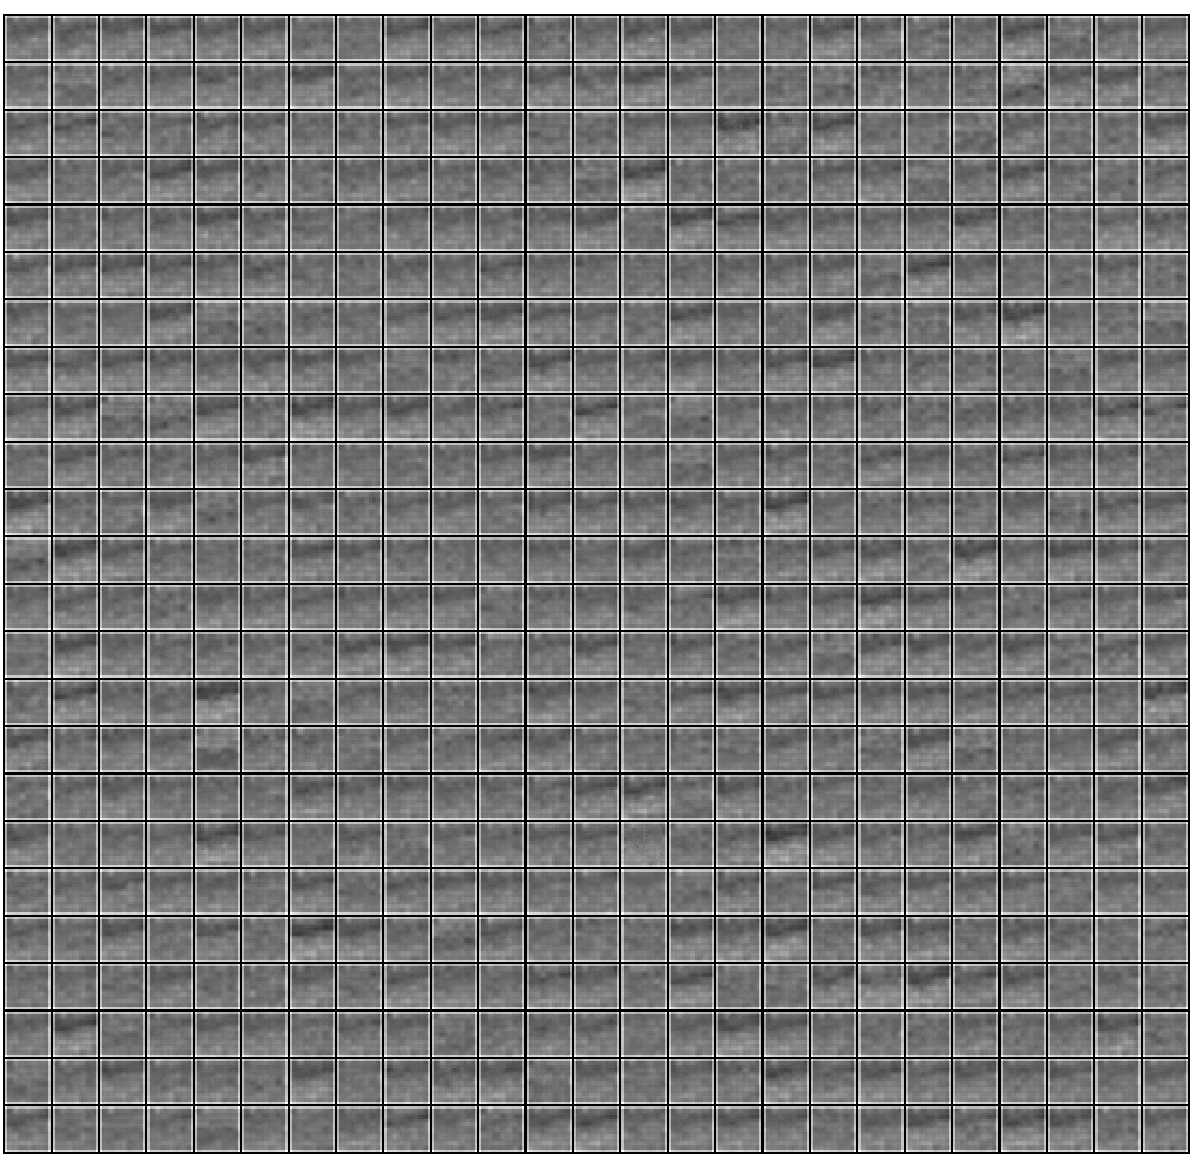
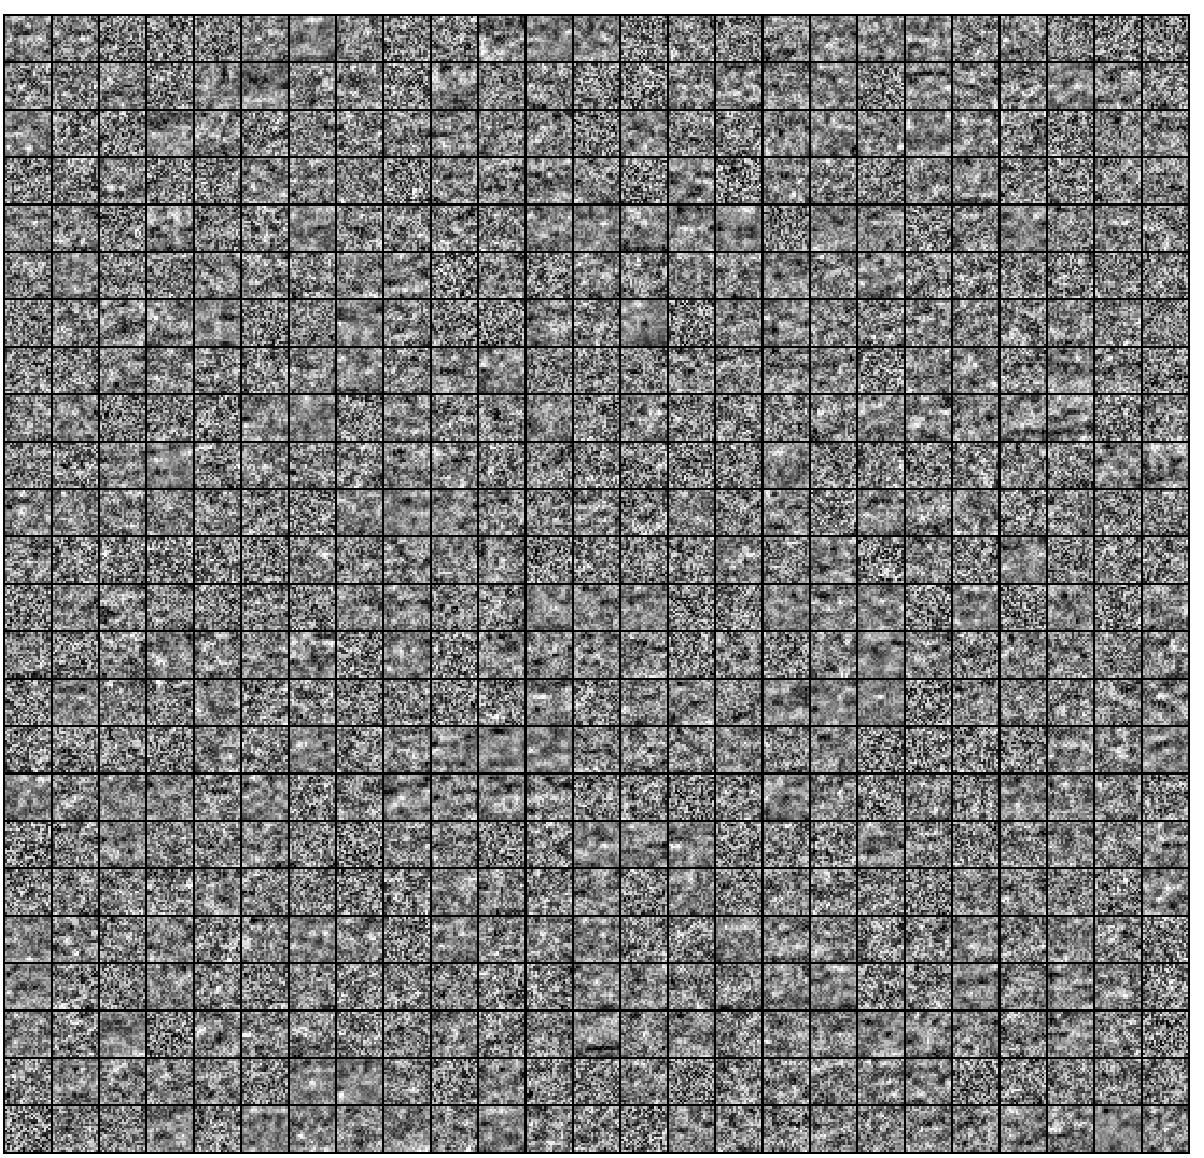
sync remote

diff --git a/train.m b/train.m
@@ -9,11 +9,11 @@ close all
 params.patchsize = 21;
 params.visibleSize = params.patchsize* params.patchsize;   % number of input units 
 params.hiddenSize = 600;     % number of hidden units 
-params.sparsityParam = 0.01;   % desired average activation of the hidden units.
+params.sparsityParam = 0.05;   % desired average activation of the hidden units.
                      % (This was denoted by the Greek alphabet rho, which looks like a lower-case "p",
 		     %  in the lecture notes). 
-params.lambda = 0.0001;     % weight decay parameter       
-params.beta =0.0001;            % weight of sparsity penalty term       
+params.lambda = 0.00001;     % weight decay parameter       
+params.beta =0.001;            % weight of sparsity penalty term       
 params.train_type = 0; % 0 or 1 depending on repeated and non repeated case
 params.batchsize = 250;
 params.alpha = 0.1;
@@ -92,7 +92,8 @@ options.Method = 'LBFGS'; % Here, we use conjugate gradient to optimize our cost
                           % function. L-BFGS can also be used as in the original exercise 
                           % code
 %[opttheta, cost,exitflag,output]= minFunc(@(p)sparseAutoencoderCost(p,params.visibleSize,params.hiddenSize,params.lambda,params.sparsityParam,params.beta,Xtrain,params.train_type),theta,options);                         
-[opttheta, cost] = fmincg(@(p)sparseAutoencoderCost(p,params.visibleSize,params.hiddenSize,params.lambda,params.sparsityParam,params.beta,Xtrain,params.train_type),theta,options,Xval,params); 
+[opttheta, cost] = fmincg(@(p)sparseAutoencoderCost(p,params.visibleSize,params.hiddenSize,params.lambda,params.sparsityParam,params.beta,Xtrain,params.patchsize, ...
+    params.train_type),theta,options,Xval,params); 
 %%======================================================================
 %% STEP 5: Visualization 
 

diff --git a/sparseAutoencoderCost_tied.m b/sparseAutoencoderCost_tied.m
@@ -1,6 +1,6 @@
-function [cost,grad] = sparseAutoencoderCost(theta, visibleSize, hiddenSize, ...
-                                             lambda, sparsityParam, beta, data,patchsize,train_type)
-
+function [cost,grad] = sparseAutoencoderCost_tied(theta, visibleSize, hiddenSize, ...
+                                             lambda, sparsityParam, beta, data,train_type)
+patchsize =21;
 % visibleSize: the number of input units (probably 64) 
 % hiddenSize: the number of hidden units (probably 25) 
 % lambda: weight decay parameter
@@ -13,7 +13,8 @@ function [cost,grad] = sparseAutoencoderCost(theta, visibleSize, hiddenSize, ...
 % We first convert theta to the (W1, W2, b1, b2) matrix/vector format, so that this 
 % follows the notation convention of the lecture notes. 
 W1 = reshape(theta(1:hiddenSize*visibleSize), hiddenSize, visibleSize);
-W2 = reshape(theta(hiddenSize*visibleSize+1:2*hiddenSize*visibleSize), visibleSize, hiddenSize);
+%W2 = reshape(theta(hiddenSize*visibleSize+1:2*hiddenSize*visibleSize), visibleSize, hiddenSize);
+W2 = W1';
 b1 = theta(2*hiddenSize*visibleSize+1:2*hiddenSize*visibleSize+hiddenSize);
 b2 = theta(2*hiddenSize*visibleSize+hiddenSize+1:end);
 
@@ -84,6 +85,7 @@ nablab2 = delta3;
  
 W1grad = nablaW1 ./ nSamples + lambda .* W1;
 W2grad = nablaW2 ./ nSamples + lambda .* W2;
+Wgrad = W1grad+W2grad;
 b1grad = sum(nablab1, 2) ./ nSamples;
 b2grad = sum(nablab2, 2) ./ nSamples;
  
@@ -92,7 +94,7 @@ b2grad = sum(nablab2, 2) ./ nSamples;
 % to a vector format (suitable for minFunc). Specifically, we will unroll
 % your gradient matrices into a vector.
  
-grad = [W1grad(:) ; W2grad(:) ; b1grad(:) ; b2grad(:)];
+grad = [Wgrad(:) ; Wgrad(:) ; b1grad(:) ; b2grad(:)];
  
 end
  

diff --git a/feedForwardAutoencoder_tied.m b/feedForwardAutoencoder_tied.m
@@ -1,0 +1,37 @@
+function aoutput = feedForwardAutoencoder_tied(opttheta, hiddenSize, visibleSize, input)
+
+
+W1 = opttheta(1:hiddenSize*visibleSize);
+%W1_prime = opttheta(hiddenSize*visibleSize+1:2*hiddenSize*visibleSize);
+W1_prime = W1';
+W1 = reshape(W1,[hiddenSize,visibleSize]);
+W1_prime = reshape(W1_prime,[visibleSize,hiddenSize]);
+
+b1 = opttheta(2*hiddenSize*visibleSize+1:2*hiddenSize*visibleSize+hiddenSize);
+b1_prime = opttheta(2*hiddenSize*visibleSize+hiddenSize+1:end);
+
+
+[ainput, ahidden, aoutput] = getActivation(W1, W1_prime, b1, b1_prime, input');
+aoutput = aoutput';
+end
+
+function [ainput, ahidden, aoutput] = getActivation(W1, W2, b1, b2, input)
+ 
+ainput = input;
+ahidden = bsxfun(@plus, W1 * ainput, b1);
+ahidden = sigmoid(ahidden);
+aoutput = bsxfun(@plus, W2 * ahidden, b2);
+aoutput = sigmoid(aoutput);
+end
+
+function sigm = sigmoid(x)
+ 
+sigm = 1 ./ (1 + exp(-x));
+end
+ 
+%-------------------------------------------------------------------
+% This function calculate dSigmoid
+%
+function dsigm = dsigmoid(a)
+dsigm = a .* (1.0 - a);
+end

diff --git a/initializeParameters_tied.m b/initializeParameters_tied.m
@@ -1,0 +1,16 @@
+function theta = initializeParameters_tied(hiddenSize, visibleSize)
+
+%% Initialize parameters randomly based on layer sizes.
+r  = sqrt(6) / sqrt(hiddenSize+visibleSize+1);   % we'll choose weights uniformly from the interval [-r, r]
+W1 = rand(hiddenSize, visibleSize) * 2 * r - r;
+%W2 = rand(visibleSize, hiddenSize) * 2 * r - r;
+W2 = W1';
+b1 = zeros(hiddenSize, 1);
+b2 = zeros(visibleSize, 1);
+
+% Convert weights and bias gradients to the vector form.
+% This step will "unroll" (flatten and concatenate together) all 
+% your parameters into a vector, which can then be used with minFunc. 
+theta = [W1(:) ; W2(:) ; b1(:) ; b2(:)];
+
+end
